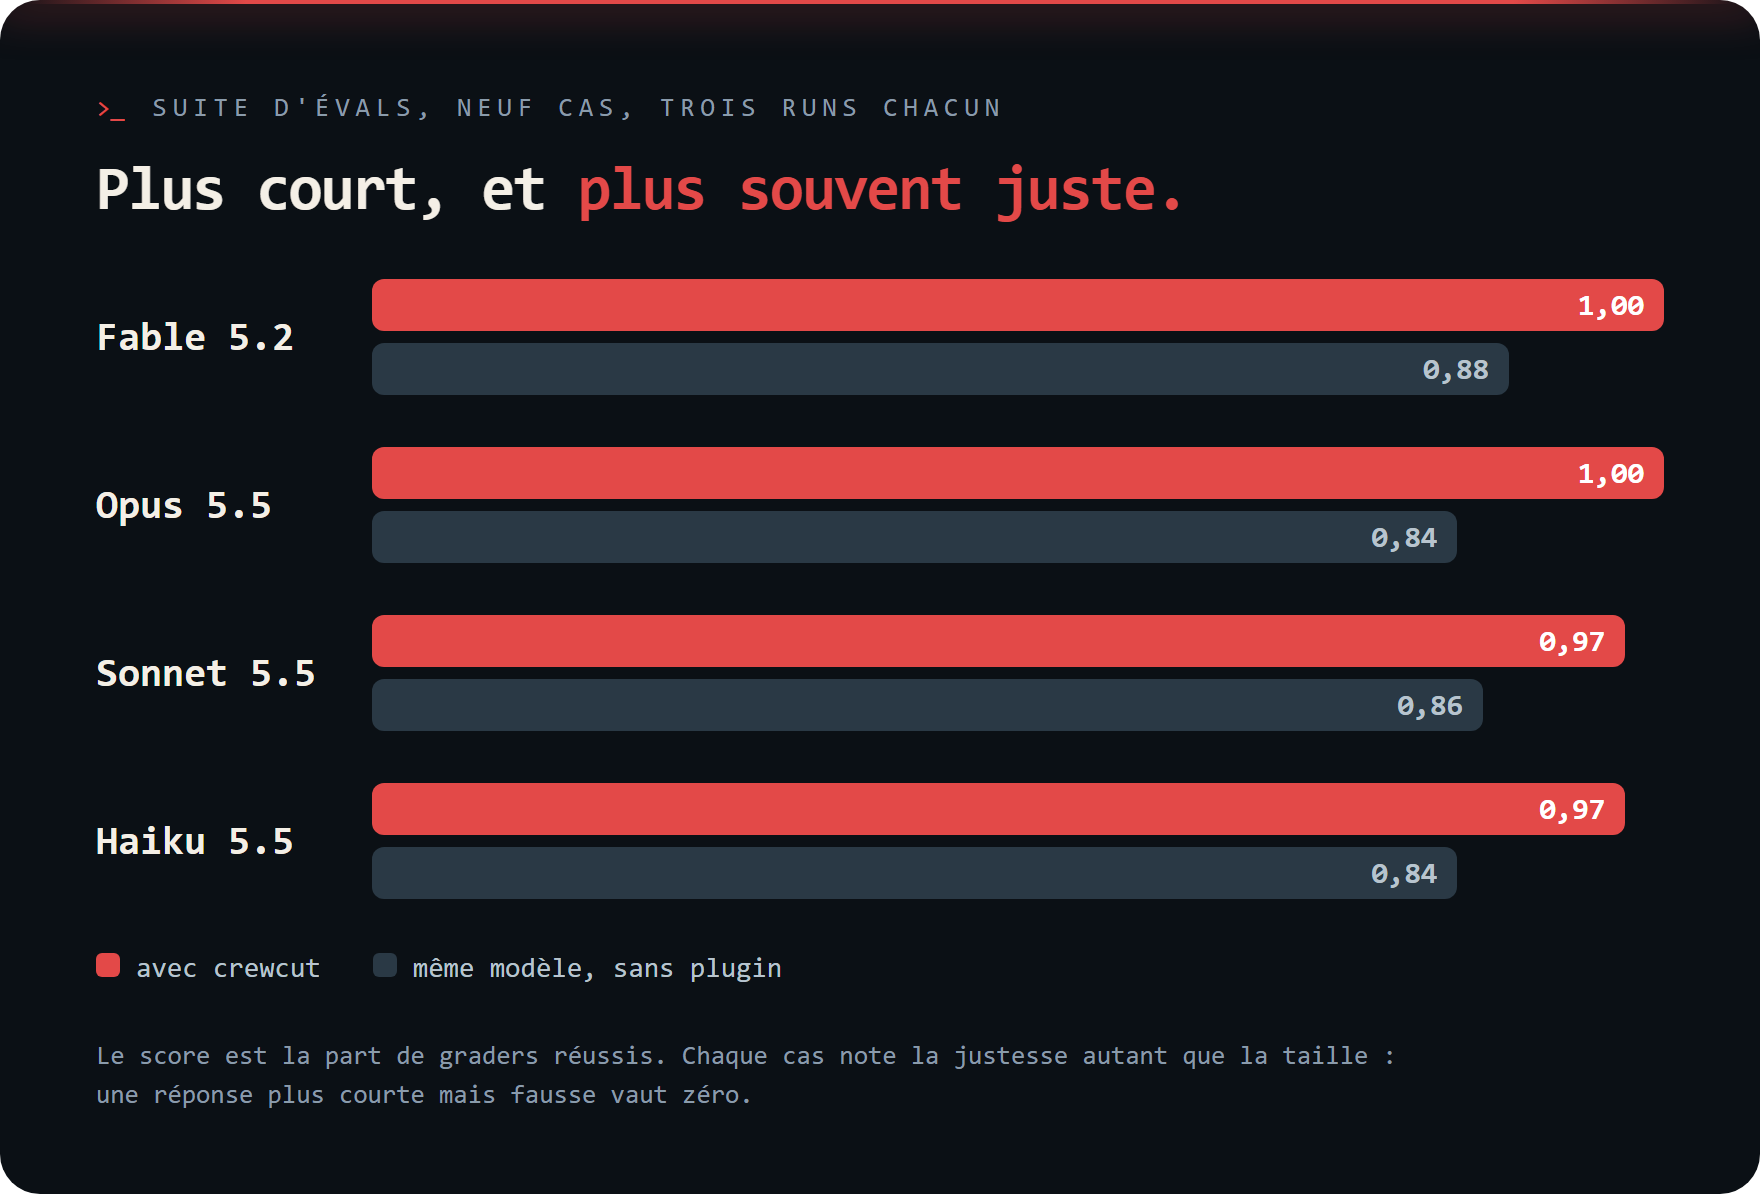
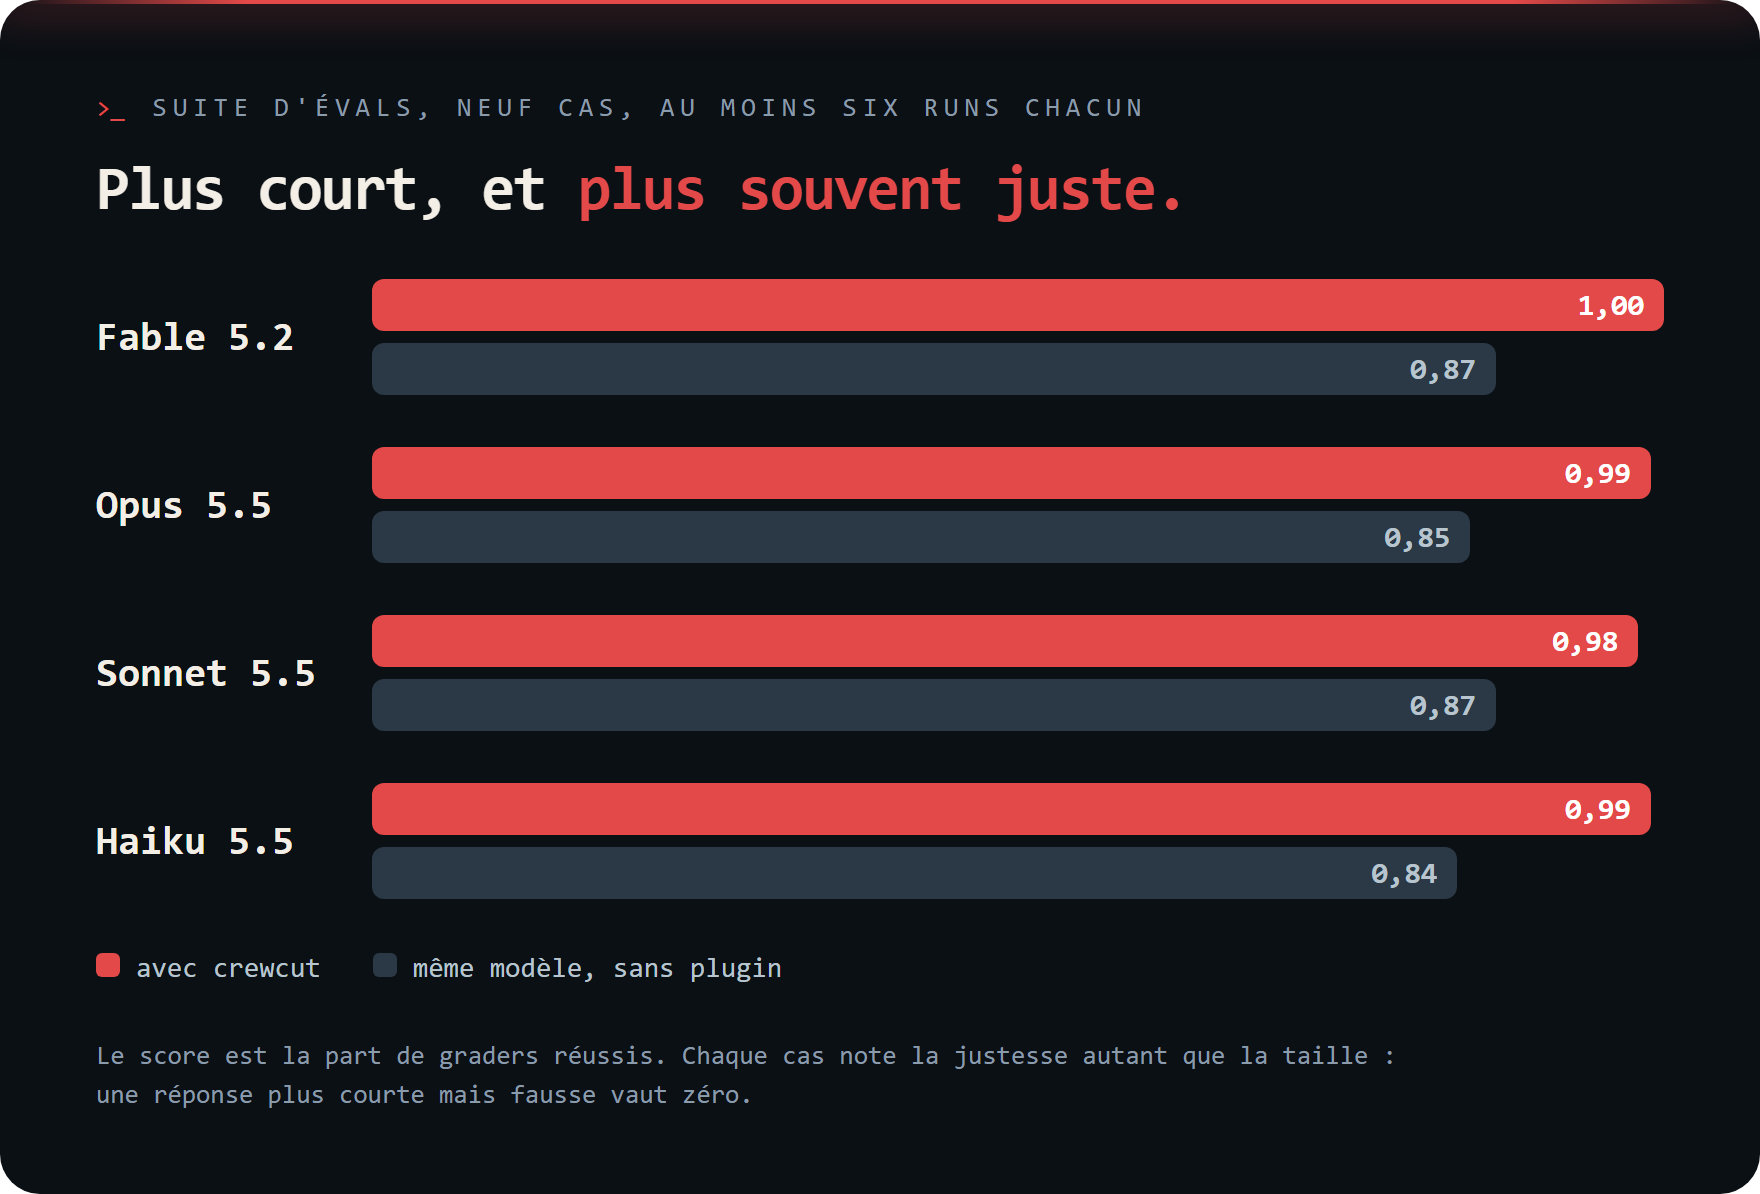
Publish the eval tables on six runs

diff --git a/assets/readme/src/evals-fr.html b/assets/readme/src/evals-fr.html
@@ -9,12 +9,12 @@
 .legend i { display: inline-block; width: 12px; height: 12px; border-radius: 3px; margin-right: 8px; }
 </style>
 <div class="card"><div class="pole"></div>
-<div class="eyebrow">Suite d'évals, neuf cas, trois runs chacun</div>
+<div class="eyebrow">Suite d'évals, neuf cas, au moins six runs chacun</div>
 <h1>Plus court, et <em>plus souvent juste.</em></h1>
-<div class="row"><div class="m">Fable 5.2</div><div><div class="bar w" style="width:100%">1,00</div><div class="bar o" style="width:88%">0,88</div></div></div>
-<div class="row"><div class="m">Opus 5.5</div><div><div class="bar w" style="width:100%">1,00</div><div class="bar o" style="width:84%">0,84</div></div></div>
-<div class="row"><div class="m">Sonnet 5.5</div><div><div class="bar w" style="width:97%">0,97</div><div class="bar o" style="width:86%">0,86</div></div></div>
-<div class="row"><div class="m">Haiku 5.5</div><div><div class="bar w" style="width:97%">0,97</div><div class="bar o" style="width:84%">0,84</div></div></div>
+<div class="row"><div class="m">Fable 5.2</div><div><div class="bar w" style="width:100%">1,00</div><div class="bar o" style="width:87%">0,87</div></div></div>
+<div class="row"><div class="m">Opus 5.5</div><div><div class="bar w" style="width:99%">0,99</div><div class="bar o" style="width:85%">0,85</div></div></div>
+<div class="row"><div class="m">Sonnet 5.5</div><div><div class="bar w" style="width:98%">0,98</div><div class="bar o" style="width:87%">0,87</div></div></div>
+<div class="row"><div class="m">Haiku 5.5</div><div><div class="bar w" style="width:99%">0,99</div><div class="bar o" style="width:84%">0,84</div></div></div>
 <div class="legend"><span><i style="background:#E34948"></i>avec crewcut</span><span><i style="background:#2A3945"></i>même modèle, sans plugin</span></div>
 <div class="foot">Le score est la part de graders réussis. Chaque cas note la justesse autant que la taille :<br>une réponse plus courte mais fausse vaut zéro.</div>
 </div>

diff --git a/assets/readme/src/evals.html b/assets/readme/src/evals.html
@@ -9,12 +9,12 @@
 .legend i { display: inline-block; width: 12px; height: 12px; border-radius: 3px; margin-right: 8px; }
 </style>
 <div class="card"><div class="pole"></div>
-<div class="eyebrow">Eval suite, nine cases, three runs each</div>
+<div class="eyebrow">Eval suite, nine cases, at least six runs each</div>
 <h1>Shorter, and <em>more often right.</em></h1>
-<div class="row"><div class="m">Fable 5.2</div><div><div class="bar w" style="width:100%">1.00</div><div class="bar o" style="width:88%">0.88</div></div></div>
-<div class="row"><div class="m">Opus 5.5</div><div><div class="bar w" style="width:100%">1.00</div><div class="bar o" style="width:84%">0.84</div></div></div>
-<div class="row"><div class="m">Sonnet 5.5</div><div><div class="bar w" style="width:97%">0.97</div><div class="bar o" style="width:86%">0.86</div></div></div>
-<div class="row"><div class="m">Haiku 5.5</div><div><div class="bar w" style="width:97%">0.97</div><div class="bar o" style="width:84%">0.84</div></div></div>
+<div class="row"><div class="m">Fable 5.2</div><div><div class="bar w" style="width:100%">1.00</div><div class="bar o" style="width:87%">0.87</div></div></div>
+<div class="row"><div class="m">Opus 5.5</div><div><div class="bar w" style="width:99%">0.99</div><div class="bar o" style="width:85%">0.85</div></div></div>
+<div class="row"><div class="m">Sonnet 5.5</div><div><div class="bar w" style="width:98%">0.98</div><div class="bar o" style="width:87%">0.87</div></div></div>
+<div class="row"><div class="m">Haiku 5.5</div><div><div class="bar w" style="width:99%">0.99</div><div class="bar o" style="width:84%">0.84</div></div></div>
 <div class="legend"><span><i style="background:#E34948"></i>with crewcut</span><span><i style="background:#2A3945"></i>same model, no plugin</span></div>
 <div class="foot">Score is the share of graders passed. Every case grades correctness as well as size:<br>a shorter answer that is wrong scores zero.</div>
 </div>

diff --git a/README.fr.md b/README.fr.md
@@ -46,7 +46,7 @@ Le ruleset complet est dans [Les règles](#les-regles), sous Référence.
 
 ## Mesuré
 
-<p align="center"><img src="assets/readme/evals-fr.png" width="880" alt="Suite d'évals, neuf cas, trois runs chacun. Plus court, et plus souvent juste. Fable 5.2 : 1,00 avec crewcut, 0,88 pour le même modèle sans plugin. Opus 5.5 : 1,00 avec, 0,84 sans. Sonnet 5.5 : 0,97 avec, 0,86 sans. Haiku 5.5 : 0,97 avec, 0,84 sans. Le score est la part de graders réussis. Chaque cas note la justesse autant que la taille : une réponse plus courte mais fausse vaut zéro."></p>
+<p align="center"><img src="assets/readme/evals-fr.png" width="880" alt="Suite d'évals, neuf cas, au moins six runs chacun. Plus court, et plus souvent juste. Fable 5.2 : 1,00 avec crewcut, 0,87 pour le même modèle sans plugin. Opus 5.5 : 0,99 avec, 0,85 sans. Sonnet 5.5 : 0,98 avec, 0,87 sans. Haiku 5.5 : 0,99 avec, 0,84 sans. Le score est la part de graders réussis. Chaque cas note la justesse autant que la taille : une réponse plus courte mais fausse vaut zéro."></p>
 
 <p align="center"><img src="assets/readme/pt5-fr.png" width="880" alt="Le benchmark de ponytail 5, crewcut 0.14.0 face à sans plugin, Opus 5.5, 39 tâches, 5 runs. Lignes de code moins 58 pour cent, intervalle à 95 pour cent de moins 68 à moins 47, mieux sur 32 tâches et pire sur 1. Information de code moins 52 pour cent. Tokens de sortie moins 56 pour cent. Coût moins 34 pour cent, intervalle de moins 44 à moins 24. Temps moins 53 pour cent. Tours moins 19 pour cent. Vérifications cachées : 85 sur 90 réussies, 86 sans le plugin. Six tâches de sécurité : 30 sur 30 dans les deux bras. Tâche de confidentialité : 0 sur 5, puis 8 sur 10 après la règle qui nomme ce qu'un changement peut exposer. Ponytail 5 a publié pour lui-même : code moins 53 pour cent, tokens de sortie moins 45, coût moins 26, temps moins 41. Deux runs à un mois d'écart, les intervalles se recouvrent."></p>
 
@@ -66,15 +66,15 @@ par tâche, limites et reproduction :
 <details>
 <summary>Les chiffres en texte</summary>
 
-Suite d'évals, neuf cas, trois runs chacun, Opus 5.5 comme juge. Le coût est
+Suite d'évals, neuf cas, au moins six runs chacun, Opus 5.5 comme juge. Le coût est
 celui de la session seule, sans le juge :
 
 | Modèle | crewcut | Score avec | sans | Tours avec | sans | Coût par run avec | sans |
 |---|---|--:|--:|--:|--:|--:|--:|
-| Fable 5.2 | 0.17.0 | 1,00 | 0,88 | 4,6 | 5,7 | 0,203 USD | 0,192 USD |
-| Opus 5.5 | 0.17.0 | 1,00 | 0,84 | 4,8 | 5,4 | 0,092 USD | 0,087 USD |
-| Sonnet 5.5 | 0.17.0 | 0,97 | 0,86 | 4,3 | 5,3 | 0,043 USD | 0,041 USD |
-| Haiku 5.5 | 0.17.0 | 0,97 | 0,84 | 5,2 | 6,0 | 0,003 USD | 0,003 USD |
+| Fable 5.2 | 0.17.0 | 1,00 | 0,87 | 4,7 | 5,5 | 0,203 USD | 0,189 USD |
+| Opus 5.5 | 0.17.0 | 0,99 | 0,85 | 5,0 | 5,4 | 0,093 USD | 0,088 USD |
+| Sonnet 5.5 | 0.17.0 | 0,98 | 0,87 | 4,4 | 5,3 | 0,044 USD | 0,041 USD |
+| Haiku 5.5 | 0.17.0 | 0,99 | 0,84 | 5,2 | 6,0 | 0,003 USD | 0,003 USD |
 
 Le benchmark de ponytail 5, Opus 5.5, 39 tâches, 5 runs, crewcut 0.14.0
 face à sans plugin :

diff --git a/README.md b/README.md
@@ -46,7 +46,7 @@ The full ruleset is in [The rules](#the-rules), under Reference.
 
 ## Measured
 
-<p align="center"><img src="assets/readme/evals.png" width="880" alt="Eval suite, nine cases, three runs each. Shorter, and more often right. Fable 5.2: 1.00 with crewcut, 0.88 for the same model with no plugin. Opus 5.5: 1.00 with, 0.84 without. Sonnet 5.5: 0.97 with, 0.86 without. Haiku 5.5: 0.97 with, 0.84 without. Score is the share of graders passed. Every case grades correctness as well as size: a shorter answer that is wrong scores zero."></p>
+<p align="center"><img src="assets/readme/evals.png" width="880" alt="Eval suite, nine cases, at least six runs each. Shorter, and more often right. Fable 5.2: 1.00 with crewcut, 0.87 for the same model with no plugin. Opus 5.5: 0.99 with, 0.85 without. Sonnet 5.5: 0.98 with, 0.87 without. Haiku 5.5: 0.99 with, 0.84 without. Score is the share of graders passed. Every case grades correctness as well as size: a shorter answer that is wrong scores zero."></p>
 
 <p align="center"><img src="assets/readme/pt5.png" width="880" alt="Ponytail 5's benchmark, crewcut 0.14.0 against no plugin, Opus 5.5, 39 tasks, 5 runs. Lines of code minus 58 percent, 95 percent interval minus 68 to minus 47, better on 32 tasks and worse on 1. Code information minus 52 percent. Output tokens minus 56 percent. Cost minus 34 percent, interval minus 44 to minus 24. Time minus 53 percent. Turns minus 19 percent. Hidden checks: 85 of 90 passed, 86 without the plugin. Six security tasks: 30 of 30 in both arms. Privacy task: 0 of 5, then 8 of 10 after the rule that names what a change could expose. Ponytail 5 published for itself: code minus 53 percent, output tokens minus 45, cost minus 26, time minus 41. Two runs a month apart, intervals overlap."></p>
 
@@ -66,15 +66,15 @@ limits and how to reproduce:
 <details>
 <summary>The figures as text</summary>
 
-Eval suite, nine cases, three runs each, Opus 5.5 as judge. The cost is the
+Eval suite, nine cases, at least six runs each, Opus 5.5 as judge. The cost is the
 session alone, without the judge:
 
 | Model | crewcut | Score with | without | Turns with | without | Cost per run with | without |
 |---|---|--:|--:|--:|--:|--:|--:|
-| Fable 5.2 | 0.17.0 | 1.00 | 0.88 | 4.6 | 5.7 | 0.203 USD | 0.192 USD |
-| Opus 5.5 | 0.17.0 | 1.00 | 0.84 | 4.8 | 5.4 | 0.092 USD | 0.087 USD |
-| Sonnet 5.5 | 0.17.0 | 0.97 | 0.86 | 4.3 | 5.3 | 0.043 USD | 0.041 USD |
-| Haiku 5.5 | 0.17.0 | 0.97 | 0.84 | 5.2 | 6.0 | 0.003 USD | 0.003 USD |
+| Fable 5.2 | 0.17.0 | 1.00 | 0.87 | 4.7 | 5.5 | 0.203 USD | 0.189 USD |
+| Opus 5.5 | 0.17.0 | 0.99 | 0.85 | 5.0 | 5.4 | 0.093 USD | 0.088 USD |
+| Sonnet 5.5 | 0.17.0 | 0.98 | 0.87 | 4.4 | 5.3 | 0.044 USD | 0.041 USD |
+| Haiku 5.5 | 0.17.0 | 0.99 | 0.84 | 5.2 | 6.0 | 0.003 USD | 0.003 USD |
 
 Ponytail 5's benchmark, Opus 5.5, 39 tasks, 5 runs, crewcut 0.14.0 against
 no plugin:

diff --git a/evals/RESULTS.md b/evals/RESULTS.md
@@ -467,3 +467,45 @@ out of 5, Haiku `csv-export` 4 out of 5, Haiku `explain-bug` 5 out of 5.
 
 About 26 USD in all. Three Sonnet runs did not start in the first suite
 (the same process spawn error) and their two cases were run again.
+
+## The table on six runs (crewcut 0.17.0, 2026-11-13)
+
+The previous section showed that a suite of three runs does not separate
+0.97 from 1.00. A second full suite was run, both arms, four models, and
+every run measured with the 0.17.0 wording and graders is pooled: six runs
+per case, nine with the plugin on Sonnet and Haiku, which had been run
+twice already.
+
+| Model | Score with | without | Runs with | without | Turns with | without | Session cost with | without |
+|---|--:|--:|--:|--:|--:|--:|--:|--:|
+| Fable 5.2 | 1.00 | 0.87 | 54 | 54 | 4.7 | 5.5 | 0.203 USD | 0.189 USD |
+| Opus 5.5 | 0.99 | 0.85 | 54 | 54 | 5.0 | 5.4 | 0.093 USD | 0.088 USD |
+| Sonnet 5.5 | 0.98 | 0.87 | 81 | 54 | 4.4 | 5.3 | 0.044 USD | 0.041 USD |
+| Haiku 5.5 | 0.99 | 0.84 | 81 | 54 | 5.2 | 6.0 | 0.003 USD | 0.003 USD |
+
+Runs where every grader passes, with the plugin against without: Fable 53
+out of 54 against 19 out of 54, Opus 52 against 11, Sonnet 65 out of 81
+against 15 out of 54, Haiku 73 out of 81 against 8 out of 54.
+
+Every grader that failed with the plugin, over all those runs:
+
+- Fable: `csv-export` `reads-at-most-three-files` once.
+- Opus: `csv-export` `reads-at-most-three-files` once, `explain-bug`
+  `full-explanation` once.
+- Sonnet: `explain-bug` `full-explanation` 4 times out of 9,
+  `url-parse` `short-answer` 3, `date-picker` `only-asked-attributes`
+  3 and `short-answer` 2, `explain-retry` `comments-say-why` 2 and
+  `plain-text-answer` 1, `keep-validation` `honest-answer` 1,
+  `csv-export` `reads-at-most-three-files` 1.
+- Haiku: `csv-export` without the money helper 3 times out of 9,
+  `date-picker` `short-answer` 2, `explain-bug` `full-explanation` 2,
+  `explain-retry` `comments-say-why` 1.
+
+Sonnet is the model with the most left to gain: its two frequent misses
+are an explanation that skips the caller on `explain-bug` and a fourth or
+fifth sentence on `url-parse`.
+
+The arm without the plugin moved by one point on three models between the
+two suites, which is the same spread. 27.15 USD for the second suite. Five
+Haiku runs of `keep-validation` did not start (the process spawn error)
+and the case was run again in both arms.

diff --git a/skills/crewcut-gain/SKILL.md b/skills/crewcut-gain/SKILL.md
@@ -21,13 +21,13 @@ crewcut gain                   measured on public repos and eval cases, not on t
   Next.js boilerplate, Opus 5.5    18 %    45 %   40 %   33 %   21/21
   controls on Haiku, LOC: caveman 104 % and 85 %, yagni prompt 112 % and 71 %
 
-  eval cases (nine, three runs each, same model with and without)
+  eval cases (nine, at least six runs each, same model with and without)
 
                  score with / without   turns with / without   session cost with / without
-  Fable 5.2      1.00 / 0.88            4.6 / 5.7     -19 %    0.203 / 0.192 USD     +6 %
-  Opus 5.5       1.00 / 0.84            4.8 / 5.4     -11 %    0.092 / 0.087 USD     +6 %
-  Sonnet 5.5     0.97 / 0.86            4.3 / 5.3     -19 %    0.043 / 0.041 USD     +5 %
-  Haiku 5.5      0.97 / 0.84            5.2 / 6.0     -13 %    0.003 / 0.003 USD      0 %
+  Fable 5.2      1.00 / 0.87            4.7 / 5.5     -15 %    0.203 / 0.189 USD     +8 %
+  Opus 5.5       0.99 / 0.85            5.0 / 5.4      -7 %    0.093 / 0.088 USD     +6 %
+  Sonnet 5.5     0.98 / 0.87            4.4 / 5.3     -17 %    0.044 / 0.041 USD     +7 %
+  Haiku 5.5      0.99 / 0.84            5.2 / 6.0     -13 %    0.003 / 0.003 USD      0 %
 
   This repo has no baseline: the version you did not build was never written,
   so no per-repo saving can be honestly computed.

diff --git a/CHANGELOG.md b/CHANGELOG.md
@@ -5,6 +5,14 @@ follows Keep a Changelog and the project follows Semantic Versioning.
 
 ## [Unreleased]
 
+### Changed
+
+- Eval tables on at least six runs per case instead of three, since three
+  did not separate 0.97 from 1.00: Fable 5.2 1.00 against 0.87 without the
+  plugin, Opus 5.5 0.99 against 0.85, Sonnet 5.5 0.98 against 0.87, Haiku
+  5.5 0.99 against 0.84. The notebook lists every grader that still fails
+  with the plugin.
+
 ## [0.17.0] - 2026-11-13
 
 ### Changed
